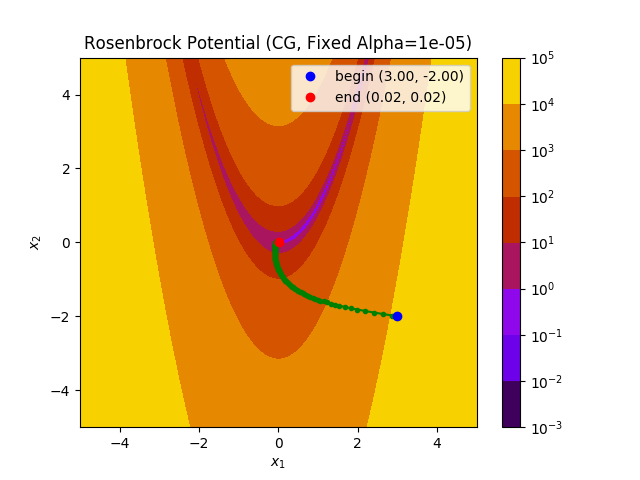
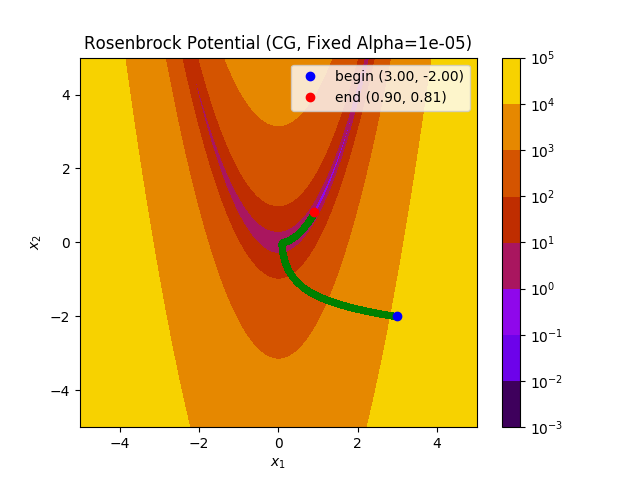
hw3: fix normalize vector

Changed region(s): [[0.4062, 0.4375, 0.625, 0.6562], [0.5938, 0.1875, 0.7188, 0.2188]]

diff --git a/HW03/pb2/3_quad/cg.py b/HW03/pb2/3_quad/cg.py
@@ -22,20 +22,47 @@ def hess_func(x1, x2, a=A, b=B):
         [-4*b*x1, 2*b],
     ])
 
-def get_proper_alpha(x1k, x2k, pk):
-    alphak = ALPHA0
-    while True:
-        x1k1 = x1k + alphak * pk[0]
-        x2k1 = x2k + alphak * pk[1]
-        grad0 = grad_func(x1k, x2k)
-        phi0 = func(x1k, x2k)
-        phi1 = func(x1k1, x1k1)
-        phi_d0 = np.matmul(grad0.T, pk)
-        if phi1 <= phi0 + C * alphak * phi_d0:
-            break
-        numerator = -np.multiply(phi_d0, alphak**2)
-        denominator = 2.0*(phi1 - phi0 - alphak*phi_d0)
-        alphak = numerator/denominator
+def get_proper_alpha(x1_0, x2_0, pk):
+    alpha0 = ALPHA0
+    x1_alpha0 = x1_0 + alpha0 * pk[0]
+    x2_alpha0 = x2_0 + alpha0 * pk[1]
+    phi_0 = func(x1_0, x2_0)
+    grad_0 = grad_func(x1_0, x2_0)
+    phi_d0 = np.matmul(grad_0.T, pk)
+    phi_alpha0 = func(x1_alpha0, x2_alpha0)
+    # quad
+    alpha1_numerator = -np.multiply(phi_d0, alpha0**2)
+    alpha1_denominator = 2.0*(phi_alpha0 - phi_0 - alpha0*phi_d0)
+    alpha1 = alpha1_numerator/alpha1_denominator
+    if phi_alpha0 <= phi_0 + C * alpha1 * phi_d0:
+        alphak = alpha1
+    else:
+        while True:
+            x1_alpha0 = x1_0 + alpha0 * pk[0]
+            x2_alpha0 = x2_0 + alpha0 * pk[1]
+            x1_alpha1 = x1_0 + alpha1 * pk[0]
+            x2_alpha1 = x2_0 + alpha1 * pk[1]
+            phi_alpha0 = func(x1_alpha0, x2_alpha0)
+            phi_alpha1 = func(x1_alpha1, x2_alpha1)            
+
+            alpha_matrix = np.array([[alpha0**2, -alpha1**2], [-alpha0**3, alpha1**3]])
+            phi_matrix = np.array([phi_alpha1 - phi_0 - alpha1*phi_d0, phi_alpha0 - phi_0 - alpha0*phi_d0])
+            ab = (1.0/(alpha0**2*alpha1**2*(alpha1-alpha0)))*np.matmul(alpha_matrix, phi_matrix)
+            a, b = ab[0], ab[1]
+            try:
+                alpha2 = (-b + math.sqrt(b**2-3*a*phi_d0))/(3*a)
+                print("large!")
+            except ValueError:
+                alpha2 = -b/(3*a)
+                # alpha2 = alpha1/2
+            print(alpha1, alpha2)
+            # alpha2 = (-b + math.sqrt(b**2-3*a*phi_d0))/(3*a)
+            if phi_alpha0 <= phi_0 + C * alpha2 * phi_d0:
+                alphak = alpha2
+                break
+
+            alpha0 = alpha1
+            alpha1 = alpha2
     return alphak
 
 if __name__ == '__main__':
@@ -67,7 +94,7 @@ if __name__ == '__main__':
         k += 1
         r = func(x1k1, x2k1)
         rs.append(r)
-        print(r)
+        # print(r)
     ## Visualize
     # contour
     x, y = np.meshgrid(np.linspace(-5, 5, 1000),

diff --git a/HW03/pb2/3_quad/sd.py b/HW03/pb2/3_quad/sd.py
@@ -22,20 +22,47 @@ def hess_func(x1, x2, a=A, b=B):
         [-4*b*x1, 2*b],
     ])
 
-def get_proper_alpha(x1k, x2k, pk):
-    alphak = ALPHA0
-    while True:
-        x1k1 = x1k + alphak * pk[0]
-        x2k1 = x2k + alphak * pk[1]
-        grad0 = grad_func(x1k, x2k)
-        phi0 = func(x1k, x2k)
-        phi1 = func(x1k1, x1k1)
-        phi_d0 = np.matmul(grad0.T, pk)
-        if phi1 <= phi0 + C * alphak * phi_d0:
-            break
-        numerator = -np.multiply(phi_d0, alphak**2)
-        denominator = 2.0*(phi1 - phi0 - alphak*phi_d0)
-        alphak = numerator/denominator
+def get_proper_alpha(x1_0, x2_0, pk):
+    alpha0 = ALPHA0
+    x1_alpha0 = x1_0 + alpha0 * pk[0]
+    x2_alpha0 = x2_0 + alpha0 * pk[1]
+    phi_0 = func(x1_0, x2_0)
+    grad_0 = grad_func(x1_0, x2_0)
+    phi_d0 = np.matmul(grad_0.T, pk)
+    phi_alpha0 = func(x1_alpha0, x2_alpha0)
+    # quad
+    alpha1_numerator = -np.multiply(phi_d0, alpha0**2)
+    alpha1_denominator = 2.0*(phi_alpha0 - phi_0 - alpha0*phi_d0)
+    alpha1 = alpha1_numerator/alpha1_denominator
+    if phi_alpha0 <= phi_0 + C * alpha1 * phi_d0:
+        alphak = alpha1
+    else:
+        while True:
+            x1_alpha0 = x1_0 + alpha0 * pk[0]
+            x2_alpha0 = x2_0 + alpha0 * pk[1]
+            x1_alpha1 = x1_0 + alpha1 * pk[0]
+            x2_alpha1 = x2_0 + alpha1 * pk[1]
+            phi_alpha0 = func(x1_alpha0, x2_alpha0)
+            phi_alpha1 = func(x1_alpha1, x2_alpha1)            
+
+            alpha_matrix = np.array([[alpha0**2, -alpha1**2], [-alpha0**3, alpha1**3]])
+            phi_matrix = np.array([phi_alpha1 - phi_0 - alpha1*phi_d0, phi_alpha0 - phi_0 - alpha0*phi_d0])
+            ab = (1.0/(alpha0**2*alpha1**2*(alpha1-alpha0)))*np.matmul(alpha_matrix, phi_matrix)
+            a, b = ab[0], ab[1]
+            try:
+                alpha2 = (-b + math.sqrt(b**2-3*a*phi_d0))/(3*a)
+                print("large!")
+            except ValueError:
+                # alpha2 = -b/(3*a)
+                alpha2 = alpha1/2
+            print(alpha1, alpha2)
+            # alpha2 = (-b + math.sqrt(b**2-3*a*phi_d0))/(3*a)
+            if phi_alpha0 <= phi_0 + C * alpha2 * phi_d0:
+                alphak = alpha2
+                break
+
+            alpha0 = alpha1
+            alpha1 = alpha2
     return alphak
 
 if __name__ == '__main__':

diff --git a/HW03/pb2/1_fixalpha/cg.py b/HW03/pb2/1_fixalpha/cg.py
@@ -5,7 +5,7 @@ matplotlib.use('TkAgg')
 import matplotlib.pyplot as plt
 
 A, B = 1, 100
-EPSILON = 1e-0
+EPSILON = 1e-2
 ALPHA = 1e-5
 
 def func(x1, x2, a=A, b=B):
@@ -20,6 +20,8 @@ def hess_func(x1, x2, a=A, b=B):
         [2+4*b*(3*x1**2-x2), -4*b*x1],
         [-4*b*x1, 2*b],
     ])
+def normalize(x):
+    return  x/np.linalg.norm(x)
 
 if __name__ == '__main__':
     x1, x2 = 3.0, -2.0
@@ -41,7 +43,7 @@ if __name__ == '__main__':
         gradk = grad_func(x1s[k],x2s[k])
         gradk1 = grad_func(x1k1,x2k1)
         betak1 = np.matmul(gradk1.T, gradk1)/np.matmul(gradk.T, gradk)
-        pk = np.add(-1.0*gradk1, np.multiply(pk, betak1))
+        pk = normalize(np.add(-1.0*gradk1, np.multiply(pk, betak1)))
 
         ps.append(pk)
         x1s.append(x1k1)
@@ -49,7 +51,7 @@ if __name__ == '__main__':
         k += 1
         r = func(x1k1, x2k1)
         rs.append(r)
-        # print(r)
+        print(r)
     ## Visualize
     # contour
     x, y = np.meshgrid(np.linspace(-5, 5, 1000),
